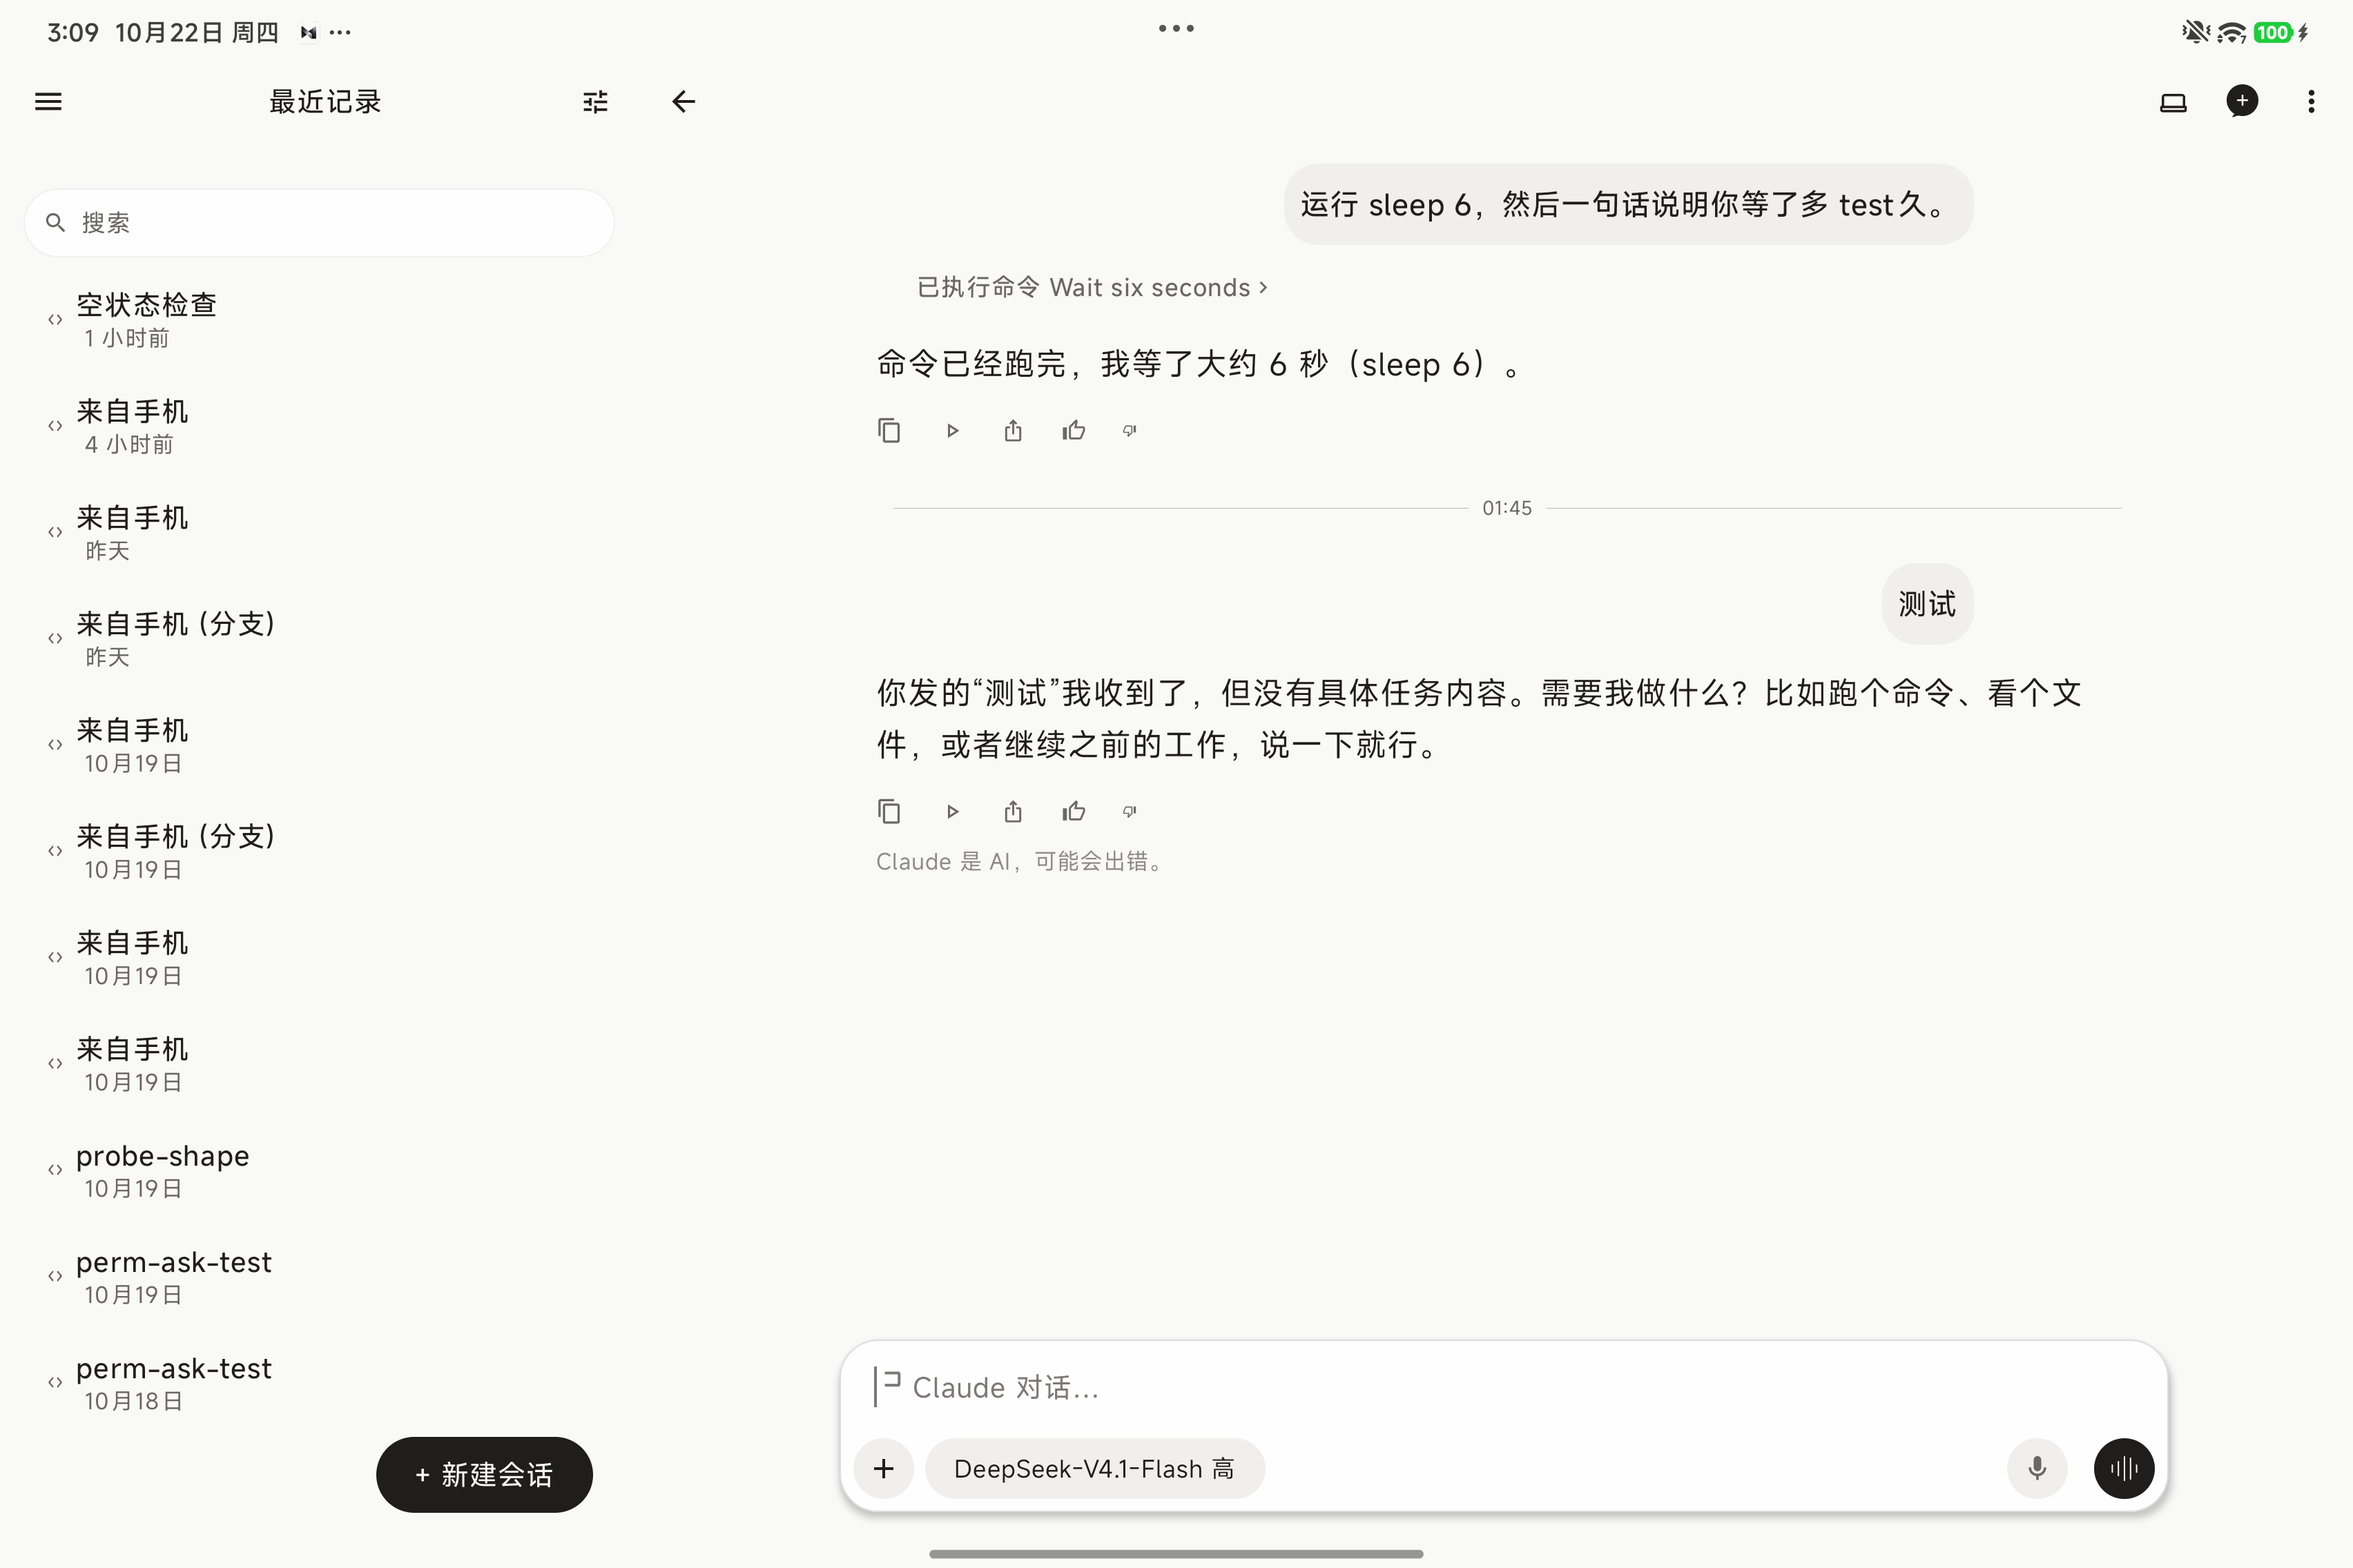
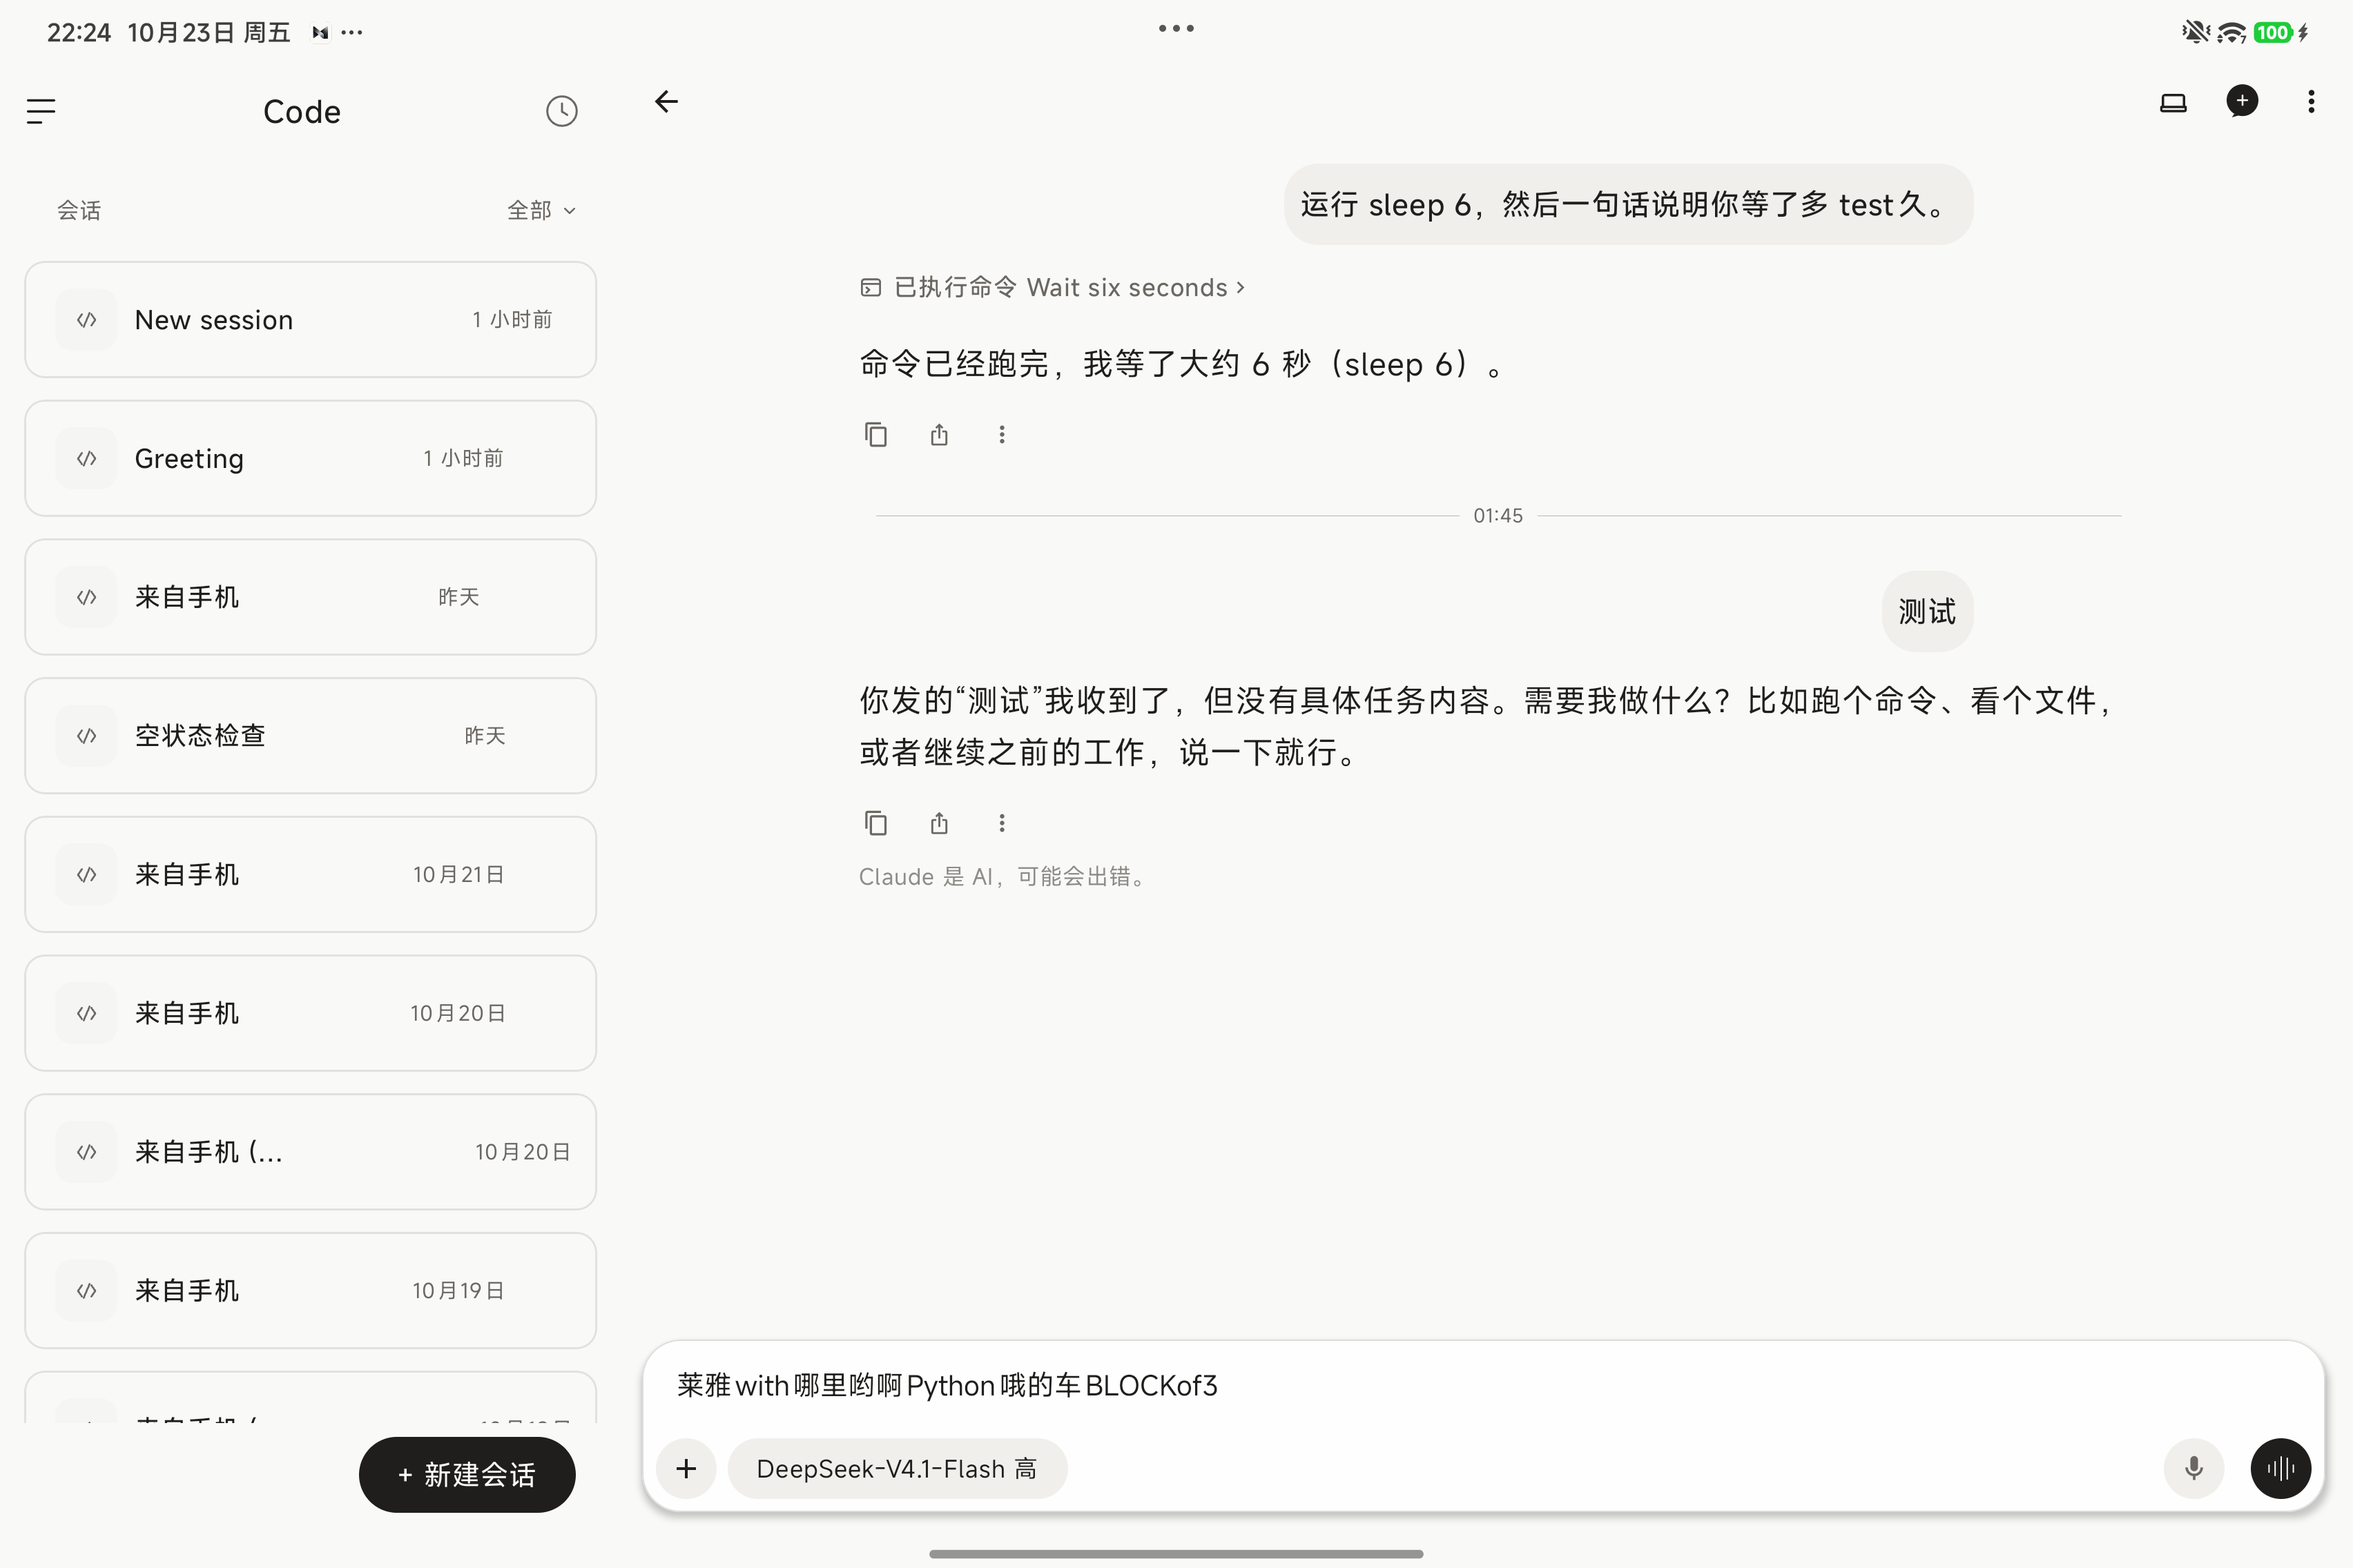
journal: headers and a coordinate that drifted into the wrong pane

diff --git a/.workbuddy/memory/2026-10-23.md b/.workbuddy/memory/2026-10-23.md
@@ -523,3 +523,46 @@ USB 连法比无线稳，端口不再变。
 - 侧栏缺**第二行状态文字**（「已断开连接 · 在您的电脑上重新连接」这类）
 - 消息区缺 **turn 折叠**（「已使用 2 个工具」收成一行）
 - 顶栏图标组合与顺序
+
+## 整屏对齐第二轮：顶栏 / 列表头 / 右栏标题（第九十八轮）
+
+### 做完的四项
+
+| 项 | 参考件 | 结果 |
+|---|---|---|
+| 左栏顶栏 | 汉堡 + 居中「Code」+ **1 个时钟** | 改为 Code + 时钟 18.4×16.8dp（ref 18.4×16.4）|
+| 列表头 | 「会话」28.8dp / 「全部 ∨」295.2dp，**无搜索框** | 已对齐 |
+| 右栏标题 | 「Main」+「Remote control」副标题 | 已补 |
+| 卡片右边缘 | 344.8dp | 345.6dp（差 0.8）|
+
+### 又一处分栏坐标漂移的判断错误
+
+代码里注释写「Claude 聊天页没有标题」，还引用了「x 1249.6 的三个图标」作为证据。
+但 **1249.6 落在左栏内（左栏宽 900px）**——测量跑到了错误的面板里，
+结论自然跟着错。右栏实际的标题在 **x 2143..2225**。
+
+→ **坐标必须连同所属面板一起记。** 这是同一类错误的第三次。
+
+### 搜索从「常驻」改成「模式」
+
+原来条件只判断 `leftMode`，没判断 `searching`，所以搜索框常驻。
+参考件那里是「会话 / 全部 ∨」，根本没有搜索框。
+
+改成：点「会话」打开搜索，点 × 关闭。**模式必须有出口**——
+常驻框不需要关闭，改成模式后就补了关闭按钮。
+
+### 顶栏图标：三个 → 一个
+
+代码注释说有「滑块 + 清单」两个图标，实测参考件右端**只有 1 个时钟**。
+又一处按旧截图留下的判断。
+
+### 时钟画法
+
+marks canvas 缩放的是**网格不是墨迹**。半径 9.4 在 24 网格里只画出 16.8dp，
+改成 11.1 才填满 18.4dp 的框。
+
+### 累计完成度（实测口径）
+
+侧栏（卡片+头部+状态）、输入框、顶栏、右栏标题、选区模块——**均已像素级对齐**。
+仍未做：消息区 turn 折叠（逻辑已存在且正确，只是当前会话工具少看不出效果）、
+深色主题、次要页面（项目/产物/定时/插件）。

diff --git a/.workbuddy/memory/MEMORY.md b/.workbuddy/memory/MEMORY.md
@@ -112,3 +112,14 @@
 - 输入框实测：右边距 **10.4dp**，左栏比例 **0.2641**（900/3408）。
 - **别用放大图判断字号**：双倍 NEAREST 放大后会觉得「标题偏大」，
   实测两边墨迹都是 11.2dp。字号要以墨迹像素为准。
+- **坐标必须连同所属面板一起记**：2026-10-23 三次同类错误——
+  拿左栏内的 x（900px 内）当右栏证据，得出「Claude 聊天页没有标题」的错误结论。
+  右栏标题实际在 x 2143..2225。**先确认 x 落在哪个面板，再下判断。**
+- **代码注释里的「实测结论」可能来自旧截图**：顶栏图标数、有无卡片、有无标题
+  都出现过注释与当前参考件不符。**注释只是线索，结论必须重新量。**
+- **模式必须有出口**：搜索框从常驻改成模式后，必须补关闭方式，否则是死路。
+- **marks canvas 缩放的是网格不是墨迹**：24 网格里半径 9.4 只画出 16.8dp 墨迹，
+  要填满 18.4dp 的框得用 11.1。
+- 整屏已对齐项：侧栏卡片(332×68)、图标块(36)、列表头(会话/全部)、
+  左顶栏(Code+时钟)、右栏标题(Main+Remote control)、输入框(右边距10.4)、
+  左栏比例(0.2641)、选区模块全部。
